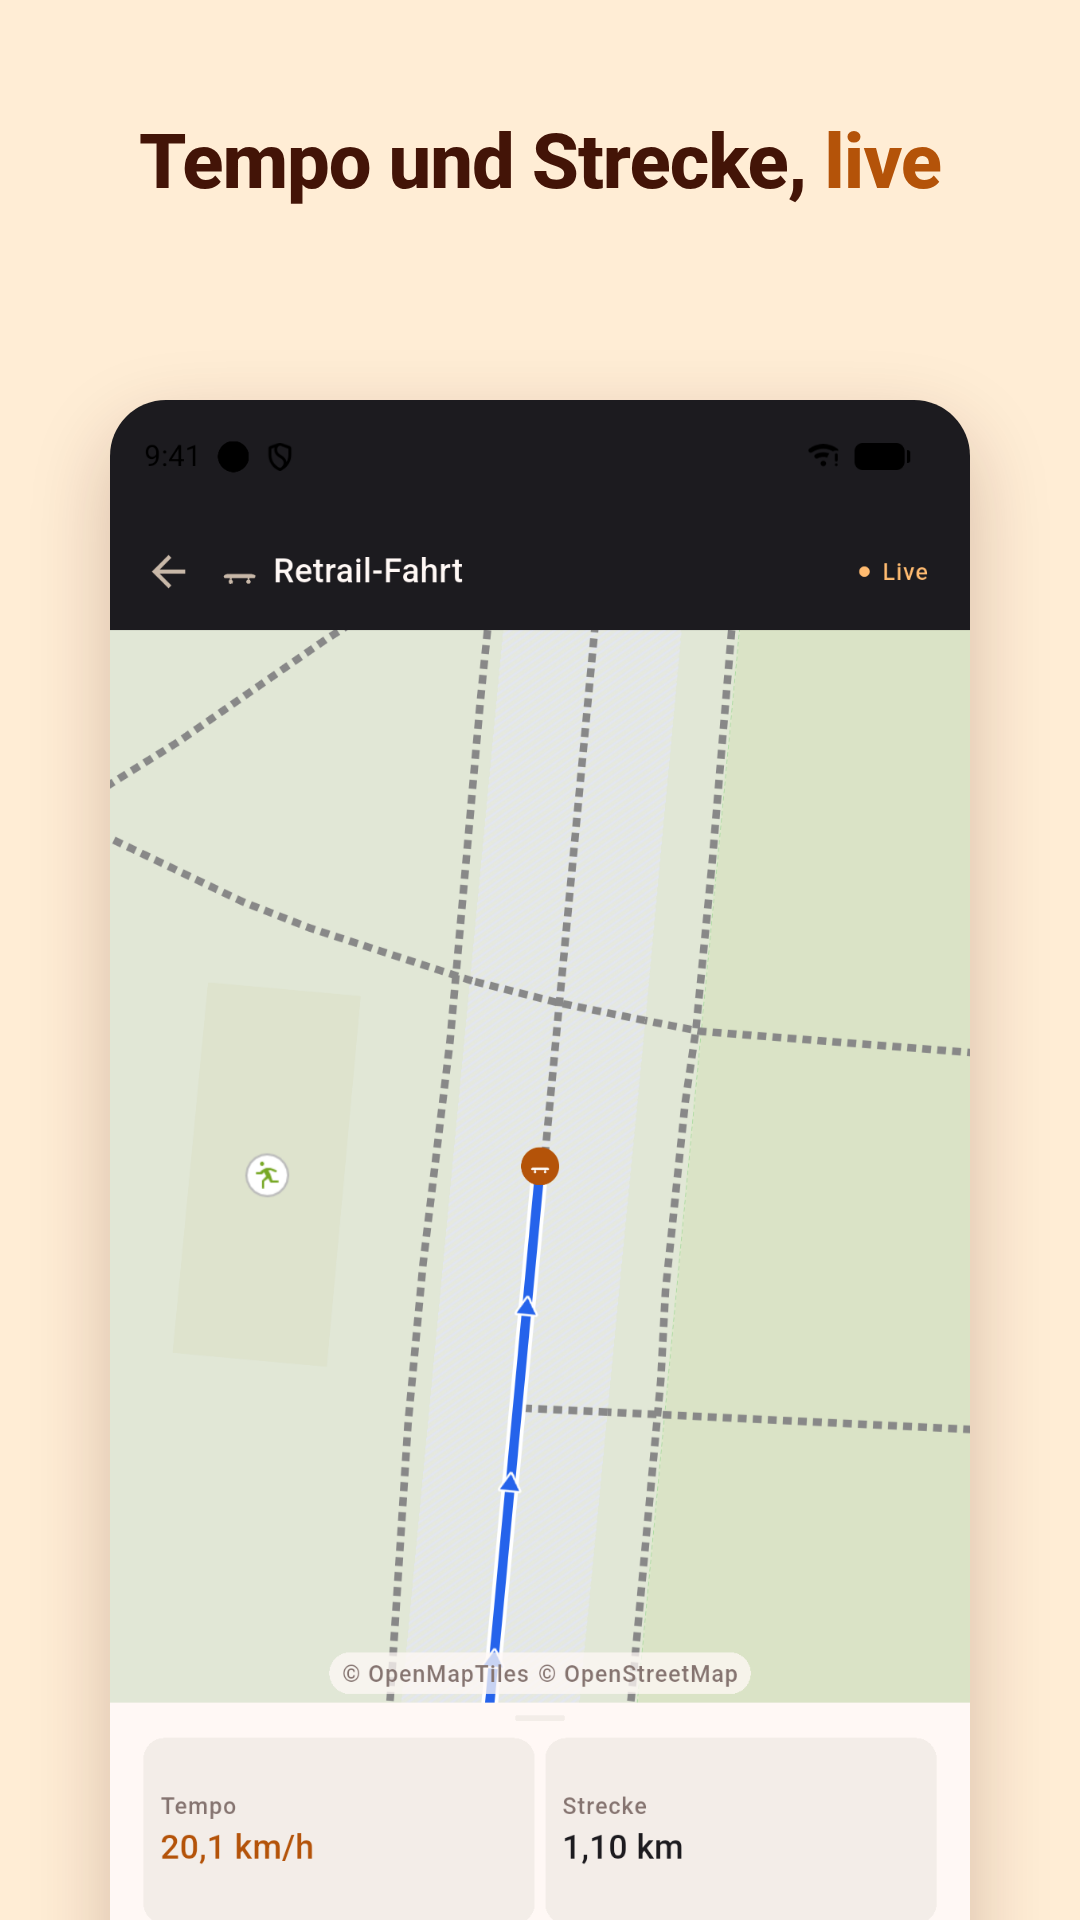
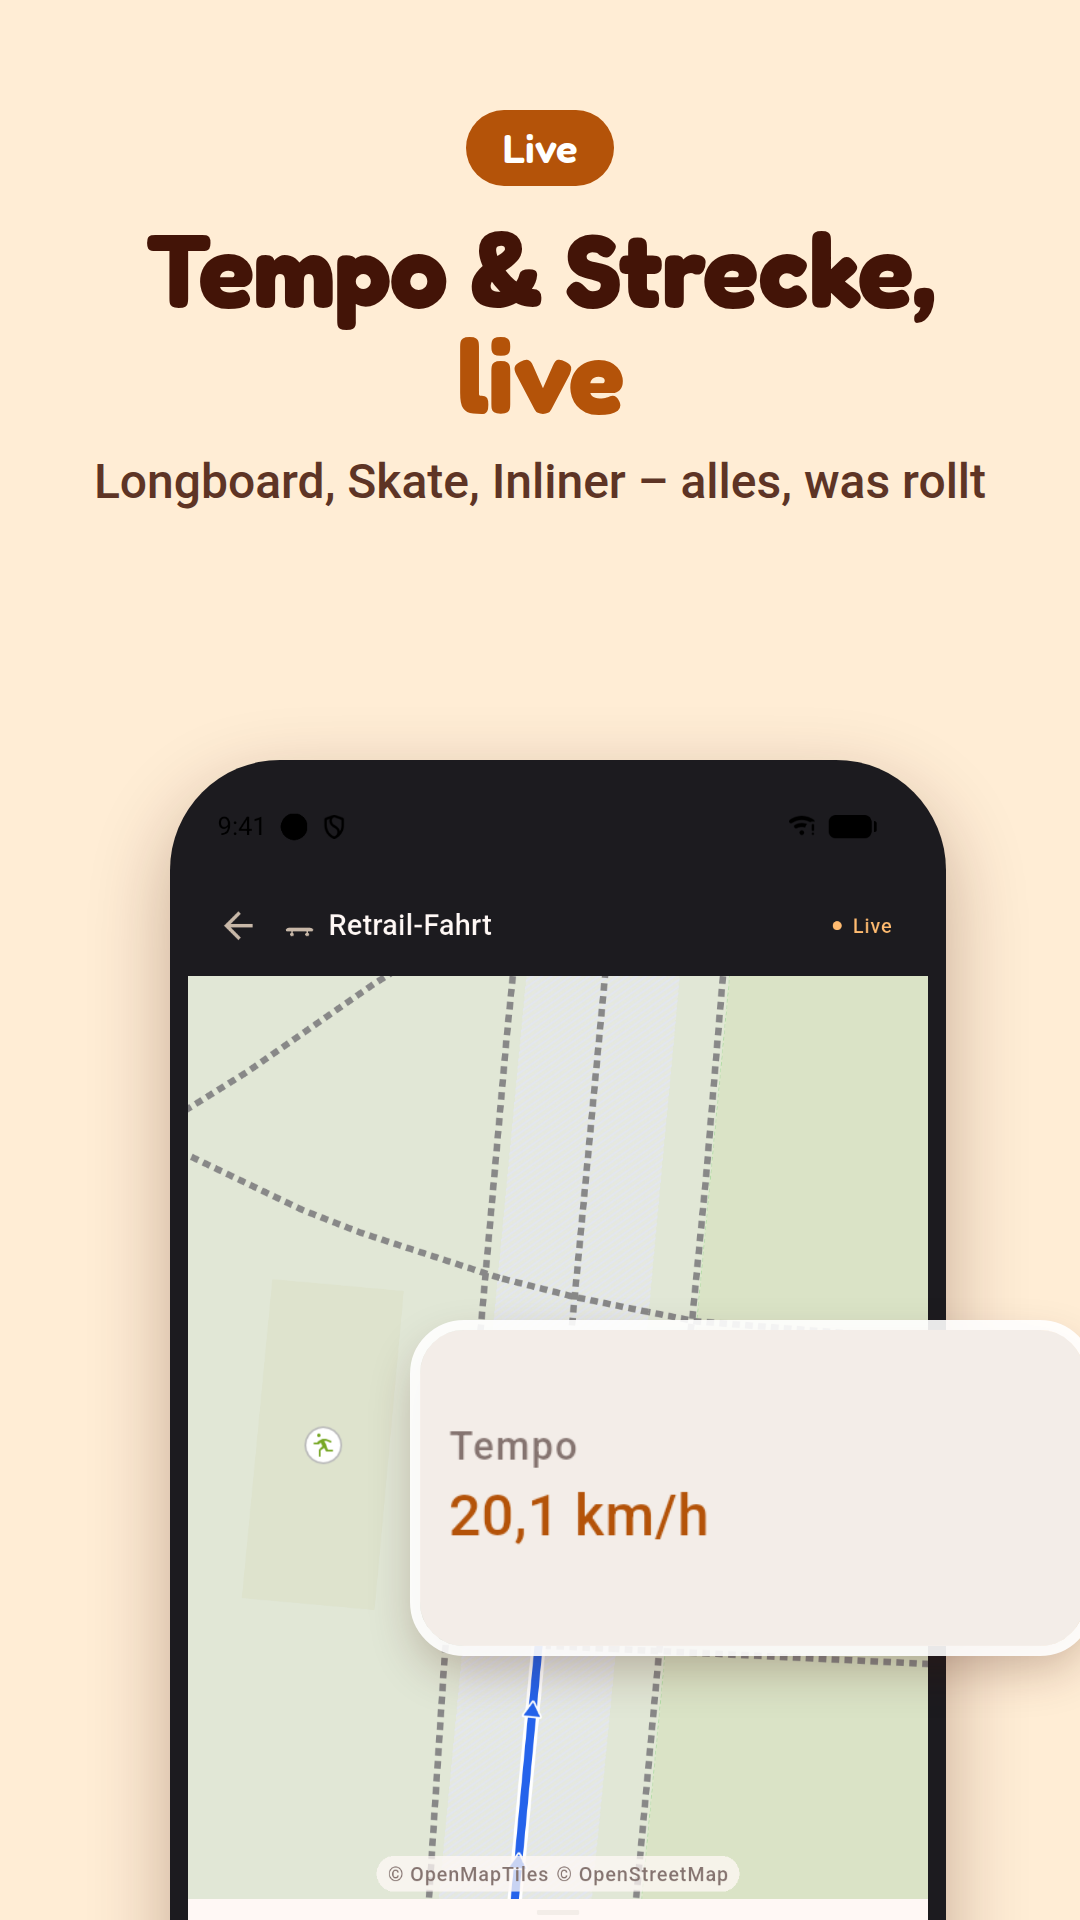
feat(store): bolder play screenshots and feature graphic
Fredoka headings with a tag and subline, alternating cream / peach / dark
backgrounds, a phone frame and an enlarged excerpt per shot. New lineup:
best time of a followed route, light + dark side by side and the spoken
countdown replace home and welcome. New raw shots from the follow demo
data: comparison sheet, history with route chips (no "Great pace" chip),
countdown and the 1.3.1 activity order. listing_preview.html shows the
set together locally.

Closes #80

diff --git a/store/play/feature_graphic.html b/store/play/feature_graphic.html
@@ -5,54 +5,35 @@
 <html lang="en">
 <head>
 <meta charset="utf-8">
-<link href="https://fonts.googleapis.com/css2?family=Roboto:wght@400;500;800&display=block" rel="stylesheet">
+<link href="https://fonts.googleapis.com/css2?family=Fredoka:wght@600;700&display=block" rel="stylesheet">
 <style>
-  :root {
-    --surface: #FFF8F5; --primary: #B45309; --on-primary-container: #431407;
-    --on-surface-variant: #857470; --terrain: #DDE8DD; --grid: #CCE0CC;
-    --route: #2563EB; --halo: #FFFFFF; --start: #16A34A; --chip: #FFEDD5;
-  }
-  html, body { margin: 0; width: 1024px; height: 500px; overflow: hidden; background: var(--surface); }
-  body { font-family: Roboto, sans-serif; position: relative; }
-  .copy { position: absolute; left: 72px; top: 0; bottom: 0; width: 560px;
+  :root { --bg: #FFEDD5; --blob: #FFD9AE; --title: #431407; --accent: #B45309;
+          --chip-bg: #B45309; --chip: #FFFFFF; --bezel: #1C1B1F; --shadow: rgba(67,20,7,.30); }
+  html, body { margin: 0; width: 1024px; height: 500px; overflow: hidden; background: var(--bg); }
+  body { font-family: Fredoka, sans-serif; position: relative; }
+  .blob { position: absolute; right: -120px; top: -160px; width: 620px; height: 820px;
+          border-radius: 50%; background: var(--blob); }
+  .copy { position: absolute; left: 64px; top: 0; bottom: 0; width: 540px;
           display: flex; flex-direction: column; justify-content: center; }
-  .brand { display: flex; align-items: center; gap: 18px; }
-  .brand svg { width: 92px; height: 111px; }
-  .name { font-size: 76px; font-weight: 800; letter-spacing: -1.5px; color: var(--on-primary-container); }
-  .tagline { margin-top: 26px; font-size: 34px; line-height: 1.22; font-weight: 500; color: var(--on-primary-container); }
-  .tagline em { font-style: normal; color: var(--primary); }
-  .chips { margin-top: 26px; display: flex; gap: 8px; flex-wrap: nowrap; }
-  .chip { background: var(--chip); color: var(--on-primary-container); border-radius: 999px;
-          padding: 7px 14px; font-size: 17px; font-weight: 500; }
-  .map { position: absolute; right: -40px; top: -40px; width: 470px; height: 580px; }
+  .brand { display: flex; align-items: center; gap: 16px; }
+  .brand svg { width: 84px; height: 101px; }
+  .name { font-size: 82px; font-weight: 700; letter-spacing: -1px; color: var(--title); }
+  .tagline { margin-top: 18px; font-size: 40px; line-height: 1.12; font-weight: 700; color: var(--title); }
+  .tagline em { font-style: normal; color: var(--accent); }
+  .chips { margin-top: 24px; display: flex; gap: 8px; flex-wrap: nowrap; }
+  .chip { background: var(--chip-bg); color: var(--chip); border-radius: 999px;
+          padding: 6px 14px; font-size: 17px; font-weight: 600; white-space: nowrap; }
+  .phone { position: absolute; width: 196px; background: var(--bezel); padding: 7px;
+           border-radius: 36px; box-shadow: 0 18px 40px var(--shadow); }
+  .phone img { display: block; width: 100%; border-radius: 30px; }
+  #p1 { left: 630px; top: 140px; transform: rotate(-6deg); }
+  #p2 { left: 800px; top: 80px; transform: rotate(5deg); }
 </style>
 </head>
 <body>
-  <svg class="map" viewBox="0 0 470 580" xmlns="http://www.w3.org/2000/svg">
-    <defs>
-      <pattern id="grid" width="46" height="46" patternUnits="userSpaceOnUse" patternTransform="rotate(-12)">
-        <path d="M46 0H0V46" fill="none" stroke="var(--grid)" stroke-width="3"/>
-      </pattern>
-      <clipPath id="card"><path d="M120 0H470V580H60C80 470 30 400 70 300C110 200 60 120 120 0Z"/></clipPath>
-      <linearGradient id="pin" x1="420" y1="210" x2="640" y2="720" gradientUnits="userSpaceOnUse">
-        <stop offset="0" stop-color="#D97808"/><stop offset="0.5" stop-color="#B8560A"/><stop offset="1" stop-color="#8E3F0C"/>
-      </linearGradient>
-    </defs>
-    <g clip-path="url(#card)">
-      <rect width="470" height="580" fill="var(--terrain)"/>
-      <rect width="470" height="580" fill="url(#grid)"/>
-      <path id="r" d="M150 480 C200 450 180 400 240 380 S330 395 340 330 S265 265 300 220 S385 205 375 165"
-            fill="none" stroke="var(--halo)" stroke-width="20" stroke-linecap="round" stroke-linejoin="round"/>
-      <path d="M150 480 C200 450 180 400 240 380 S330 395 340 330 S265 265 300 220 S385 205 375 165"
-            fill="none" stroke="var(--route)" stroke-width="11" stroke-linecap="round" stroke-linejoin="round"/>
-      <circle cx="150" cy="480" r="15" fill="var(--start)" stroke="var(--halo)" stroke-width="6"/>
-    </g>
-    <!-- the pin from the app icon, sitting on the route's end -->
-    <g transform="translate(375 165) scale(0.2) translate(-557 -726)">
-      <path fill="url(#pin)" fill-rule="evenodd" d="M557 726 C522 688 350 548 350 403 A207 207 0 0 1 764 403 C764 548 592 688 557 726 Z M557 340 A48 48 0 1 0 557 436 A48 48 0 1 0 557 340 Z"/>
-      <circle cx="557" cy="388" r="66" fill="none" stroke="#431407" stroke-width="36"/>
-    </g>
-  </svg>
+  <div class="blob"></div>
+  <div class="phone" id="p1"><img id="img1" alt=""></div>
+  <div class="phone" id="p2"><img id="img2" alt=""></div>
 
   <div class="copy">
     <div class="brand">
@@ -84,6 +65,8 @@
     };
     const lang = new URLSearchParams(location.search).get('lang') || 'en';
     document.documentElement.lang = lang;
+    document.getElementById('img1').src = `screens/raw/${lang}_light_08_compare.png`;
+    document.getElementById('img2').src = `screens/raw/${lang}_dark_07_track.png`;
     document.getElementById('tagline').innerHTML = copy[lang].tagline;
     document.getElementById('chips').innerHTML =
       copy[lang].chips.map(c => `<span class="chip">${c}</span>`).join('');

diff --git a/store/play/screenshot_frame.html b/store/play/screenshot_frame.html
@@ -1,33 +1,73 @@
 <!doctype html>
-<!-- Frame for the Play phone screenshots (1080 x 1920): caption on top, the
-     raw emulator screenshot below, cut off at the bottom edge. Rendered by
-     tool/render_store_graphics.sh with ?img=…&title=…&theme=light|dark.
-     Colours are the AppColors tokens (lib/core/theme/app_colors.dart). -->
+<!-- Frame for the Play phone screenshots (1080 x 1920): tag, caption and
+     subline on top, the raw emulator screenshot in a phone below, cut off at
+     the bottom edge, and optionally a part of it enlarged on top ("pop").
+     Rendered by tool/render_store_graphics.sh with
+       ?bg=cream|peach|dark&tag=…&title=…&sub=…&img=…[&img2=…][&pop=x,y,w,h,scale,left,top]
+     img2 puts a second phone next to the first (light + dark). pop crops
+     x,y,w,h (raw pixels, 1080 x 2424) out of img and shows it at scale at
+     left,top. Colours are the AppColors tokens (lib/core/theme/app_colors.dart). -->
 <html>
 <head>
 <meta charset="utf-8">
-<link href="https://fonts.googleapis.com/css2?family=Roboto:wght@500;800&display=block" rel="stylesheet">
+<link href="https://fonts.googleapis.com/css2?family=Fredoka:wght@600;700&family=Roboto:wght@500&display=block" rel="stylesheet">
 <style>
-  :root { --bg: #FFEDD5; --title: #431407; --accent: #B45309; --shadow: rgba(67,20,7,.22); }
-  :root[data-theme="dark"] { --bg: #2B2118; --title: #F3EDE8; --accent: #F59E42; --shadow: rgba(0,0,0,.55); }
+  :root { --bg: #FFEDD5; --title: #431407; --accent: #B45309; --sub: #431407;
+          --tag-bg: #B45309; --tag: #FFFFFF; --bezel: #1C1B1F; --shadow: rgba(67,20,7,.30); }
+  :root[data-bg="peach"] { --bg: #FFD9AE; }
+  :root[data-bg="dark"] { --bg: #2B2118; --title: #F3EDE8; --accent: #F59E42; --sub: #F3EDE8;
+                          --tag-bg: #F59E42; --tag: #431407; --shadow: rgba(0,0,0,.55); --rim: #5A4A3E; }
   html, body { margin: 0; width: 1080px; height: 1920px; overflow: hidden; background: var(--bg); }
   body { font-family: Roboto, sans-serif; position: relative; }
-  h1 { position: absolute; left: 80px; right: 80px; top: 120px; margin: 0; text-align: center;
-       font-size: 76px; line-height: 1.12; font-weight: 800; letter-spacing: -1px; color: var(--title); }
+  .copy { position: absolute; left: 70px; right: 70px; top: 110px; text-align: center; }
+  .tag { display: inline-block; margin-bottom: 30px; padding: 14px 36px; border-radius: 999px;
+         font: 600 40px Fredoka, sans-serif; background: var(--tag-bg); color: var(--tag); }
+  h1 { margin: 0; font-family: Fredoka, sans-serif; font-weight: 700; font-size: 104px;
+       line-height: 1.02; letter-spacing: -1px; color: var(--title); }
   h1 em { font-style: normal; color: var(--accent); }
-  .shot { position: absolute; left: 110px; top: 400px; width: 860px; border-radius: 56px;
-          box-shadow: 0 30px 80px var(--shadow); overflow: hidden; }
-  .shot img { display: block; width: 100%; }
+  .sub { margin-top: 24px; font-size: 48px; font-weight: 500; line-height: 1.25; color: var(--sub); opacity: .85; }
+  .phone { position: absolute; left: 170px; top: 760px; width: 740px; background: var(--bezel);
+           padding: 18px; border-radius: 110px; box-shadow: 0 0 0 4px var(--rim, transparent), 0 30px 80px var(--shadow); }
+  .phone img { display: block; width: 100%; border-radius: 94px; }
+  .pair .phone { width: 600px; padding: 14px; border-radius: 80px; }
+  .pair .phone img { border-radius: 68px; }
+  .pair #p1 { left: 20px; top: 820px; }
+  .pair #p2 { left: 440px; top: 700px; }
+  .pop { position: absolute; background-repeat: no-repeat; border-radius: 44px;
+         box-shadow: 0 20px 50px var(--shadow); outline: 10px solid rgba(255,255,255,.9); }
 </style>
 </head>
 <body>
-  <h1 id="title"></h1>
-  <div class="shot"><img id="img" alt=""></div>
+  <div class="copy">
+    <div class="tag" id="tag"></div>
+    <h1 id="title"></h1>
+    <div class="sub" id="sub"></div>
+  </div>
+  <div class="phone" id="p1"><img id="img" alt=""></div>
+  <div class="phone" id="p2" hidden><img id="img2" alt=""></div>
+  <div class="pop" id="pop" hidden></div>
   <script>
     const q = new URLSearchParams(location.search);
-    document.documentElement.dataset.theme = q.get('theme') || 'light';
+    document.documentElement.dataset.bg = q.get('bg') || 'cream';
+    document.getElementById('tag').textContent = q.get('tag');
     document.getElementById('title').innerHTML = q.get('title');
+    document.getElementById('sub').textContent = q.get('sub');
     document.getElementById('img').src = q.get('img');
+    if (q.get('img2')) {
+      document.body.classList.add('pair');
+      document.getElementById('p2').hidden = false;
+      document.getElementById('img2').src = q.get('img2');
+    }
+    if (q.get('pop')) {
+      const [x, y, w, h, s, left, top] = q.get('pop').split(',').map(Number);
+      const el = document.getElementById('pop');
+      el.hidden = false;
+      Object.assign(el.style, {
+        width: `${w * s}px`, height: `${h * s}px`, left: `${left}px`, top: `${top}px`,
+        backgroundImage: `url("${q.get('img')}")`, backgroundSize: `${1080 * s}px auto`,
+        backgroundPosition: `${-x * s}px ${-y * s}px`,
+      });
+    }
   </script>
 </body>
 </html>

diff --git a/store/play/listing_preview.html b/store/play/listing_preview.html
@@ -1,0 +1,72 @@
+<!doctype html>
+<!-- Local preview of the store listing graphics: how the icon, feature
+     graphic and the 8 screenshots read together, on a phone-sized listing
+     and as the full row. Not uploaded anywhere. ?lang=de|en -->
+<html>
+<head>
+<meta charset="utf-8">
+<link href="https://fonts.googleapis.com/css2?family=Roboto:wght@400;500;700&display=block" rel="stylesheet">
+<style>
+  :root { --bg: #ECE7E3; --card: #FFFFFF; --text: #1F1B16; --muted: #6B625B; --accent: #B45309; }
+  html, body { margin: 0; background: var(--bg); font-family: Roboto, sans-serif; color: var(--text); }
+  body { width: 1900px; padding: 60px; box-sizing: border-box; display: flex; gap: 70px; }
+  .device { flex: none; width: 412px; height: 900px; background: var(--card); border-radius: 44px;
+            border: 12px solid #1C1B1F; overflow: hidden; box-shadow: 0 20px 60px rgba(0,0,0,.25); }
+  .device .inner { padding: 22px 18px; }
+  .head { display: flex; gap: 16px; align-items: center; }
+  .head img { width: 72px; height: 72px; border-radius: 16px; }
+  .head h2 { margin: 0; font-size: 21px; font-weight: 500; }
+  .head .dev { color: var(--accent); font-size: 14px; margin-top: 4px; }
+  .meta { display: flex; justify-content: space-around; margin: 22px 0; font-size: 13px; color: var(--muted); text-align: center; }
+  .meta b { display: block; color: var(--text); font-size: 15px; }
+  .install { background: var(--accent); color: #fff; text-align: center; border-radius: 20px; padding: 10px; font-weight: 500; }
+  .carousel { display: flex; gap: 8px; margin: 22px -18px 0 0; overflow: hidden; }
+  .carousel img { height: 300px; border-radius: 10px; flex: none; }
+  .about { margin-top: 22px; }
+  .about h3 { margin: 0 0 8px; font-size: 17px; font-weight: 500; }
+  .about p { margin: 0; font-size: 14px; line-height: 1.45; color: var(--muted); }
+  .side { flex: 1; min-width: 0; }
+  .label { font-size: 15px; font-weight: 700; letter-spacing: 1px; color: var(--muted); text-transform: uppercase; margin: 0 0 14px; }
+  .fg { width: 720px; border-radius: 14px; display: block; box-shadow: 0 10px 30px rgba(0,0,0,.15); }
+  .row { display: grid; grid-template-columns: repeat(8, 1fr); gap: 14px; margin-top: 50px; }
+  .row img { width: 100%; border-radius: 12px; box-shadow: 0 8px 24px rgba(0,0,0,.15); display: block; }
+</style>
+</head>
+<body>
+  <div class="device"><div class="inner">
+    <div class="head">
+      <img src="icon_512.png" alt="">
+      <div><h2 id="name"></h2><div class="dev">Valijuu</div></div>
+    </div>
+    <div class="meta"><div><b id="acc"></b><span id="acc2"></span></div><div><b id="free"></b><span id="ads"></span></div></div>
+    <div class="install" id="install"></div>
+    <div class="carousel" id="carousel"></div>
+    <div class="about"><h3 id="abouth"></h3><p id="short"></p></div>
+  </div></div>
+
+  <div class="side">
+    <p class="label" id="l1"></p>
+    <img class="fg" id="fg" alt="">
+    <p class="label" id="l2" style="margin-top:50px"></p>
+    <div class="row" id="row"></div>
+  </div>
+
+  <script>
+    const lang = new URLSearchParams(location.search).get('lang') || 'de';
+    const t = {
+      de: { name: 'Retrail: Skate & Longboard GPS', acc: 'Ohne Konto', acc2: 'Daten bleiben lokal', free: 'Kostenlos', ads: 'Ohne Werbung',
+            install: 'Installieren', abouth: 'Über diese App', l1: 'Feature-Grafik', l2: 'Alle 8 Screenshots',
+            short: 'GPS-Tracker fürs Skaten & Longboarden: Strecke, Tempo und Kilometer aufzeichnen' },
+      en: { name: 'Retrail: Skate & Longboard GPS', acc: 'No account', acc2: 'Data stays local', free: 'Free', ads: 'No ads',
+            install: 'Install', abouth: 'About this app', l1: 'Feature graphic', l2: 'All 8 screenshots',
+            short: 'GPS tracker for skate & longboard rides – track your route, speed and distance' },
+    }[lang];
+    for (const [id, v] of Object.entries(t)) { const el = document.getElementById(id); if (el) el.textContent = v; }
+    const shots = ['01_track', '02_best_time', '03_follow', '04_history', '05_dark', '06_detail', '07_countdown', '08_activities'];
+    document.getElementById('fg').src = `feature_graphic_${lang}.png`;
+    const imgs = shots.map(s => `<img src="screenshots/${lang}/${s}.png" alt="">`).join('');
+    document.getElementById('carousel').innerHTML = imgs;
+    document.getElementById('row').innerHTML = imgs;
+  </script>
+</body>
+</html>

diff --git a/tool/demo_rides/build_demo_db_test.dart b/tool/demo_rides/build_demo_db_test.dart
@@ -5,10 +5,10 @@
 //   flutter test tool/demo_rides/build_demo_db_test.dart
 //   RETRAIL_DEMO_LANG=de flutter test tool/demo_rides/build_demo_db_test.dart
 //
-// RETRAIL_DEMO_FOLLOWS=1 adds followed rides (Spec 20) for device tests:
-// rides linked to an original, with a partial one and one that rode to the
-// route first (its time on the route still wins, #79). Off by default, so
-// the store screenshots stay as they are.
+// RETRAIL_DEMO_FOLLOWS=1 adds followed rides (Spec 20) for device tests and
+// the store screenshots (comparison sheet): rides linked to an original, with
+// a partial one and one that rode to the route first (its time on the route
+// still wins, #79).
 //
 // Writes build/demo_rides/retrail_<lang>.sqlite with ride titles in that
 // language (en by default). Ride dates are relative to now, so

diff --git a/docs/play-store.md b/docs/play-store.md
@@ -260,17 +260,18 @@ Made with `tool/render_store_graphics.sh` (sources and output in `store/play/`):
 | Asset | File | Spec |
 |---|---|---|
 | App icon | `store/play/icon_512.png` | 512 × 512 PNG, 32-bit, ≤ 1 MB — from `assets/branding/app_icon.png` |
-| Feature graphic | `store/play/feature_graphic_en.png`, `…_de.png` | 1024 × 500 PNG, no alpha — source `store/play/feature_graphic.html` (tagline + chips per language) |
-
-| Phone screenshots | `store/play/screenshots/<lang>/01_track.png` … `08_welcome.png` (recording, follow, history, detail, home, dark recording, activities, welcome) | 8 per language, 1080 × 1920, captions in `store/play/screenshots.tsv`, frame `store/play/screenshot_frame.html` |
+| Feature graphic | `store/play/feature_graphic_en.png`, `…_de.png` | 1024 × 500 PNG, no alpha — source `store/play/feature_graphic.html` (tagline + chips per language, two phones: comparison sheet + dark recording) |
+| Phone screenshots | `store/play/screenshots/<lang>/01_track.png` … `08_activities.png` (recording, best time of a followed route, follow, history, light + dark, detail, countdown, activities) | 8 per language, 1080 × 1920, tag + caption + subline, background and enlarged excerpt per shot in `store/play/screenshots.tsv`, frame `store/play/screenshot_frame.html` (Fredoka headings, cream / peach / dark backgrounds) |
 
 **How the screenshots are made** (no real location data anywhere):
 
-1. `flutter test tool/demo_rides/build_demo_db_test.dart` (and again with
-   `RETRAIL_DEMO_LANG=de`) builds `build/demo_rides/retrail_<lang>.sqlite`:
-   ten rides on Tempelhofer Feld, Berlin (public park; route geometry from
-   OpenStreetMap, ODbL, in `tool/demo_rides/routes.json`) with titles and
-   comments, dates relative to today.
+1. `RETRAIL_DEMO_FOLLOWS=1 flutter test tool/demo_rides/build_demo_db_test.dart`
+   (and again with `RETRAIL_DEMO_LANG=de`) builds
+   `build/demo_rides/retrail_<lang>.sqlite`: rides on Tempelhofer Feld, Berlin
+   (public park; route geometry from OpenStreetMap, ODbL, in
+   `tool/demo_rides/routes.json`) with titles and comments, dates relative to
+   today, including followed rides for the comparison sheet (History → the
+   "Followed" chip on the top card).
 2. On an Android emulator with a debug build (`run-as` needs a debuggable
    app): onboard with the name **Retrailer**, then copy the database into
    `app_flutter/retrail.sqlite` via `adb push` + `run-as … cp`.
@@ -278,7 +279,12 @@ Made with `tool/render_store_graphics.sh` (sources and output in `store/play/`):
    once per second along a route — the speed argument matters, without it
    the stationary filter drops every fix.
 4. Clean status bar: System UI demo mode (`sysui_demo_allowed`, clock 9:41,
-   full battery and wifi, notifications hidden).
+   full battery and wifi, notifications hidden). Language and theme: write
+   `flutter.app_language` (`en`/`de`) and `flutter.theme_mode`
+   (`light`/`dark`) into `shared_prefs/FlutterSharedPreferences.xml` via
+   `run-as`, with `flutter.battery_hint_dismissed` = true so the hint stays
+   out of the countdown shot. The countdown shot is taken about 5.6 s after
+   "Start tracking" (shows "5"); discard the ride afterwards.
 5. Raw shots go to `store/play/screens/raw/<lang>_<theme>_NN_<screen>.png`;
    `tool/render_store_graphics.sh` frames them. Raw shots are 1080 × 2424
    (ratio 2.24), which Play rejects — always upload the framed ones.

diff --git a/README.md b/README.md
@@ -8,9 +8,9 @@ Retrail is a Flutter app for **Android and iOS**.
 
 <p align="center">
   <img src="store/play/screenshots/en/01_track.png" width="24%" alt="Recording a ride on the live map">
-  <img src="store/play/screenshots/en/02_follow.png" width="24%" alt="Following a saved route">
-  <img src="store/play/screenshots/en/03_history.png" width="24%" alt="Ride history with map previews">
-  <img src="store/play/screenshots/en/05_home.png" width="24%" alt="Home screen with weekly stats">
+  <img src="store/play/screenshots/en/02_best_time.png" width="24%" alt="Comparing the runs of a followed route">
+  <img src="store/play/screenshots/en/03_follow.png" width="24%" alt="Following a saved route">
+  <img src="store/play/screenshots/en/04_history.png" width="24%" alt="Ride history with map previews">
 </p>
 
 ## Features
